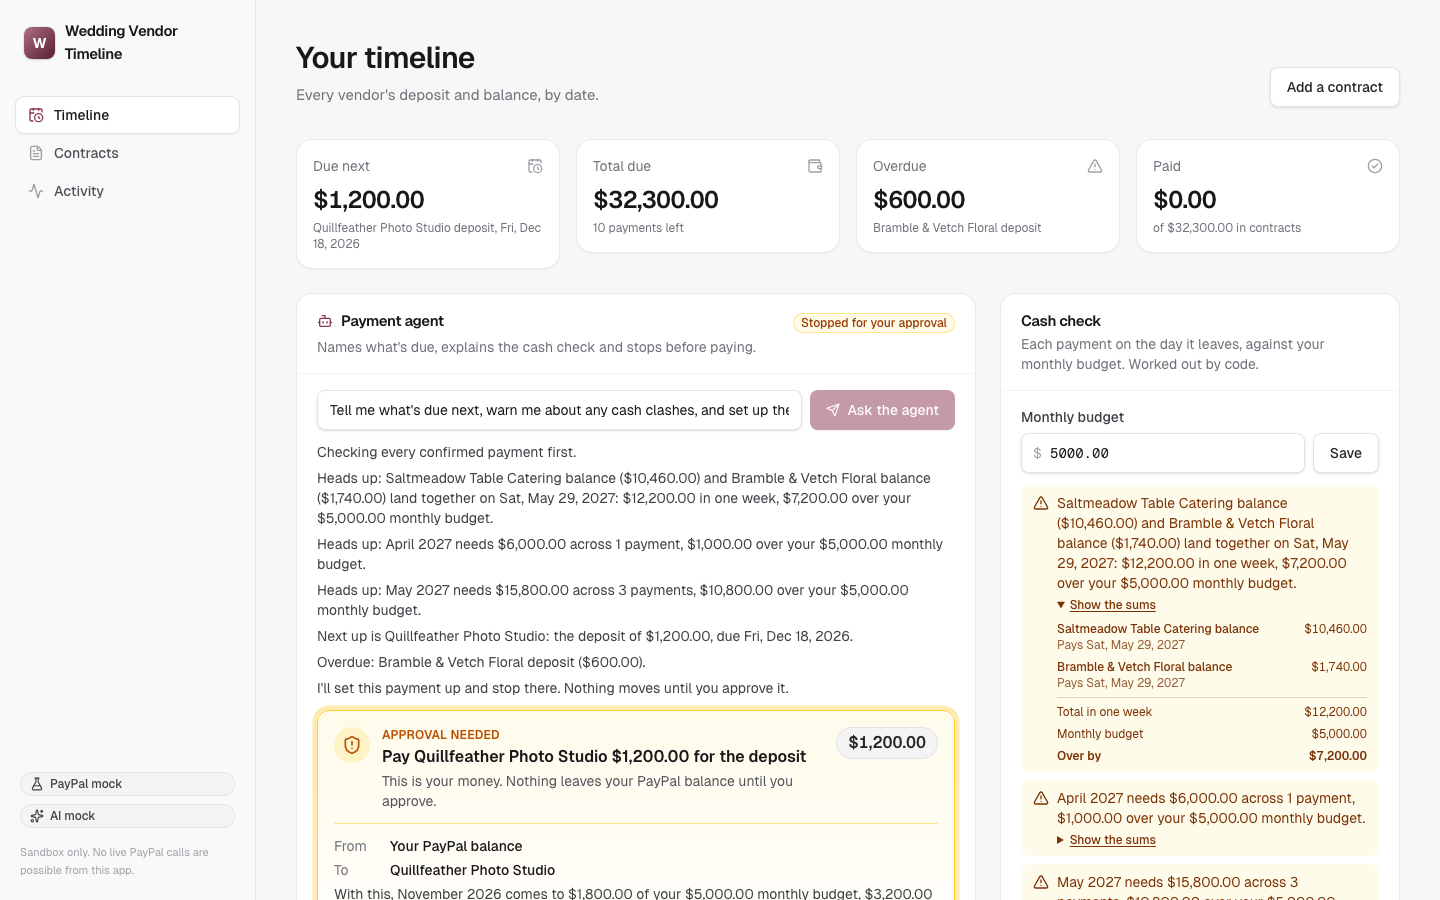
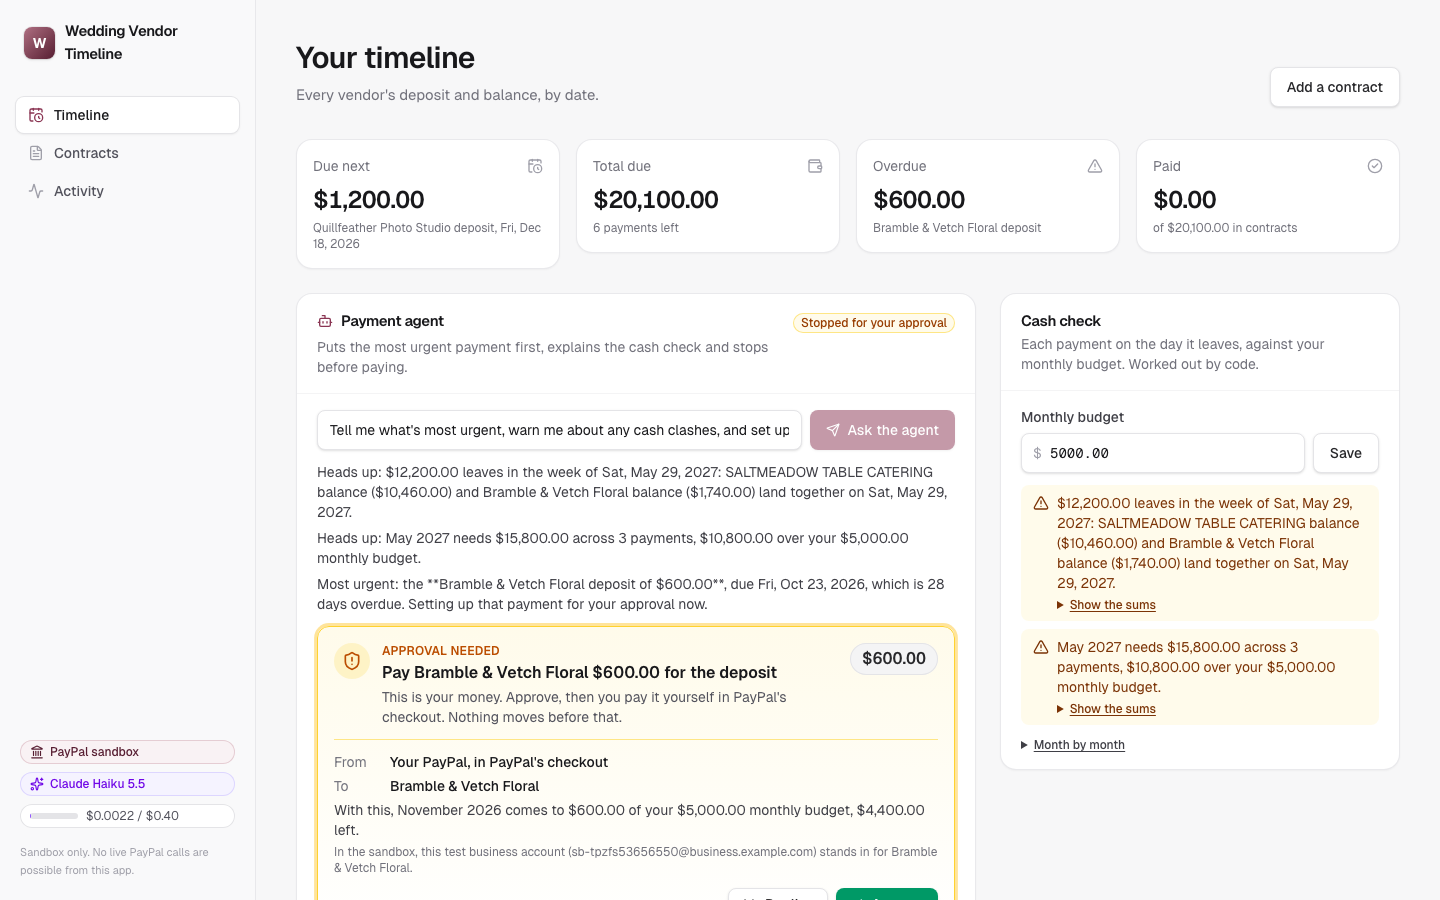
Keep a late payment overdue while it waits on the couple
The Overdue card read $0.00 while the florist deposit sat waiting for
approval or PayPal's checkout. It now counts every unpaid past-due item.
The demo runs under a $0.40 AI cap, says "read back from PayPal's API"
when no webhook confirmed the capture, and the test card path reloads
PayPal's login page when its card link never loads.

diff --git a/tests/e2e/pay-in-checkout.ts b/tests/e2e/pay-in-checkout.ts
@@ -20,13 +20,18 @@ export async function payInCheckout(page: Page, box: Locator, sandbox: boolean, 
 /**
  * PayPal opens one of three screens: its card form; its login page, which links to the card form; or a
  * guest page that asks for an email first. Step through whichever it shows until the card form is up.
+ * The sandbox login page sometimes never finishes loading its card link; a reload brings it back.
  */
 async function openCardForm(page: Page) {
   const card = page.locator("#cardNumber");
   const cardLink = page.getByRole("button", { name: "Pay with Debit or Credit Card" });
   const guestEmail = page.getByRole("button", { name: "Continue to Payment" });
-  for (let step = 0; step < 4; step++) {
-    await expect(card.or(cardLink).or(guestEmail).first()).toBeVisible({ timeout: 60_000 });
+  const anyStep = card.or(cardLink).or(guestEmail).first();
+  for (let step = 0, reloads = 0; step < 4; step++) {
+    while (!(await anyStep.waitFor({ timeout: 25_000 }).then(() => true, () => false))) {
+      if (++reloads > 2) await expect(anyStep).toBeVisible({ timeout: 1_000 });
+      await page.reload();
+    }
     if (await card.isVisible()) return;
     if (await cardLink.isVisible()) await cardLink.click();
     else {

diff --git a/demo/demo.spec.ts b/demo/demo.spec.ts
@@ -108,9 +108,12 @@ test("demo", async ({ page }) => {
   await deposit.scrollIntoViewIfNeeded();
   await highlight(page, deposit.getByTestId("paypal-proof"), 2600);
   const confirmedBy = await deposit.getByTestId("paid-by").innerText();
-  await caption(page, `Paid. PayPal's capture reads COMPLETED${confirmedBy.includes("webhook") ? ", and PayPal's webhook for it arrived" : ", read back from PayPal's API"}. The capture id is right there.`);
+  await caption(page, `Paid. PayPal's capture reads COMPLETED${confirmedBy.startsWith("Confirmed by PayPal webhook") ? ", and PayPal's webhook for it arrived" : ", read back from PayPal's API"}. The capture id is right there.`);
   clock.check("paid");
 
   await titleCard(page, "Wedding Vendor Timeline", "PayPal Orders checkout, capture re-reads, webhooks and Claude", 2600);
   clock.check("end");
+  const after = await (await page.request.get("/api/kit/status")).json();
+  console.log(`[demo] PayPal ${after.paypal.mode}, AI ${after.ai.mode}, AI spend today: ${JSON.stringify(after.ai.budget)}`);
+  console.log(`[demo] Paid: ${await deposit.getByTestId("paypal-proof").innerText()}`);
 });

diff --git a/src/lib/wedding/pay.ts b/src/lib/wedding/pay.ts
@@ -353,5 +353,5 @@ export async function viewTimeline(planId: string, today = utcToday()): Promise<
   const view = buildTimeline(listContracts(planId), today, monthlyBudget(planId));
   const items = view.items.map((item) => ({ ...item, approval: pendingApproval(item) }));
   const same = (item: TimelineItem | null) => items.find((i) => i.id === item?.id) ?? null;
-  return { ...view, items, nextDue: same(view.nextDue), payFirst: same(view.payFirst), overdue: items.filter((i) => i.status === "overdue"), sandboxStandIn: getEnv().paypalMode === "sandbox" };
+  return { ...view, items, nextDue: same(view.nextDue), payFirst: same(view.payFirst), overdue: items.filter((i) => view.overdue.some((o) => o.id === i.id)), sandboxStandIn: getEnv().paypalMode === "sandbox" };
 }

diff --git a/tests/unit/wedding-timeline.test.ts b/tests/unit/wedding-timeline.test.ts
@@ -60,6 +60,12 @@ describe("buildTimeline", () => {
     expect(view.overdue).toEqual([]);
   });
 
+  it("keeps a past-due payment overdue while it waits on approval or the checkout", () => {
+    const view = buildTimeline([contract("a", terms({ depositDue: "2026-10-01" }), { deposit: payment("awaiting_checkout", 25_000) })], "2026-11-20");
+    expect(view.items[0].status).toBe("awaiting_checkout");
+    expect(view.overdue.map((i) => i.kind)).toEqual(["deposit"]);
+  });
+
   it("counts money as due until PayPal says it was paid", () => {
     const view = buildTimeline([contract("a", terms(), { deposit: payment("sending", 25_000) })], "2026-11-20");
     expect(view.items[0].status).toBe("sending");

diff --git a/tests/unit/wedding-pay.test.ts b/tests/unit/wedding-pay.test.ts
@@ -100,6 +100,8 @@ describe("paying", () => {
     let view = await viewTimeline(contract.planId, "2026-11-20");
     expect(view.items[0]).toMatchObject({ status: "awaiting_approval", approval: { summary: "Pay Quillfeather Photo Studio $1,200.00 for the deposit" } });
     expect(view.totalDueCents).toBe(PHOTOGRAPHER.totalCents);
+    // Waiting on the couple doesn't stop a late payment counting as overdue.
+    expect((await viewTimeline(contract.planId, "2027-01-01")).overdue).toMatchObject([{ id: view.items[0].id, status: "awaiting_approval" }]);
 
     getApprovals().decide(approval.id, "approved", "couple");
     await finished;

diff --git a/src/lib/wedding/timeline.ts b/src/lib/wedding/timeline.ts
@@ -41,7 +41,8 @@ export function buildTimeline(contracts: Contract[], today: string, monthlyBudge
   return {
     today,
     items,
-    overdue: items.filter((i) => i.status === "overdue"),
+    // Past due until PayPal says paid, even while it waits on an approval or the checkout.
+    overdue: unpaid.filter((i) => i.daysUntil < 0),
     nextDue: unpaid.find((i) => i.daysUntil >= 0 && i.status !== "sending") ?? null,
     payFirst: unpaid.find((i) => i.status === "overdue") ?? unpaid.find((i) => i.status === "due_today" || i.status === "upcoming") ?? null,
     totalDueCents: sumCents(unpaid.map((i) => i.cents)),

diff --git a/playwright.demo.config.ts b/playwright.demo.config.ts
@@ -37,6 +37,8 @@ export default defineConfig({
     env: {
       PAYPAL_MODE,
       AI_MODE: process.env.DEMO_AI_MODE ?? "mock",
+      // A live-AI recording spends at most 40 cents; it usually spends under one.
+      AI_DAILY_CAP_USD: process.env.DEMO_AI_CAP_USD ?? "0.40",
       KIT_DATA_DIR: ".data-demo",
       MOCK_PAYPAL_LATENCY_MS: "250-600",
       DEMO_TEST_CARD: "1",
